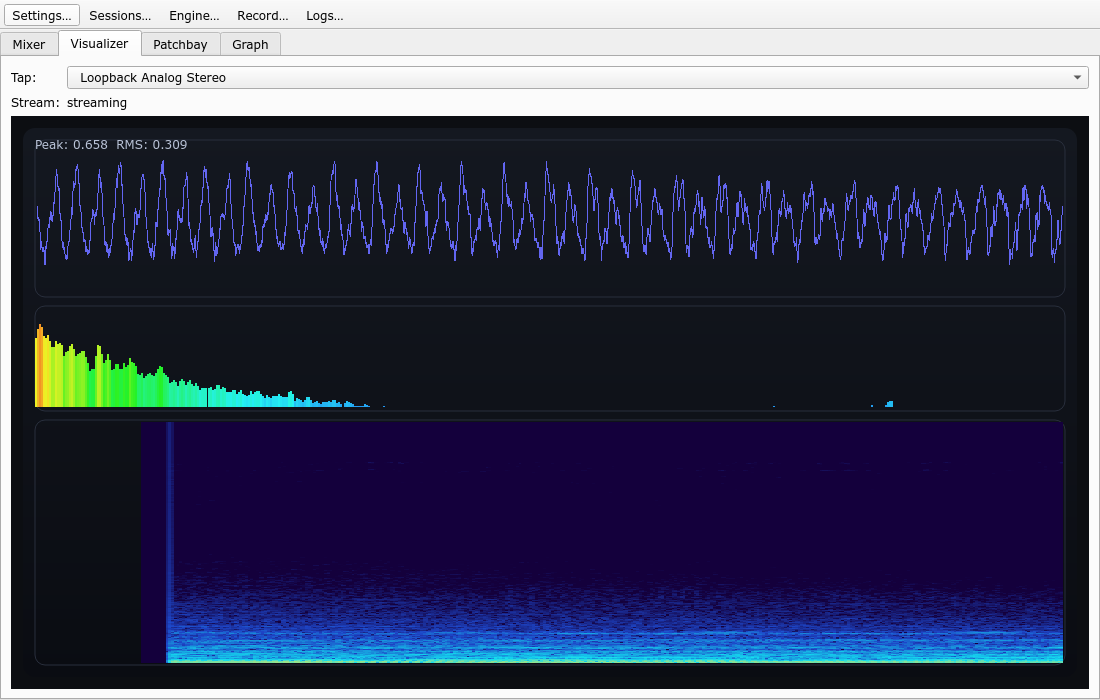
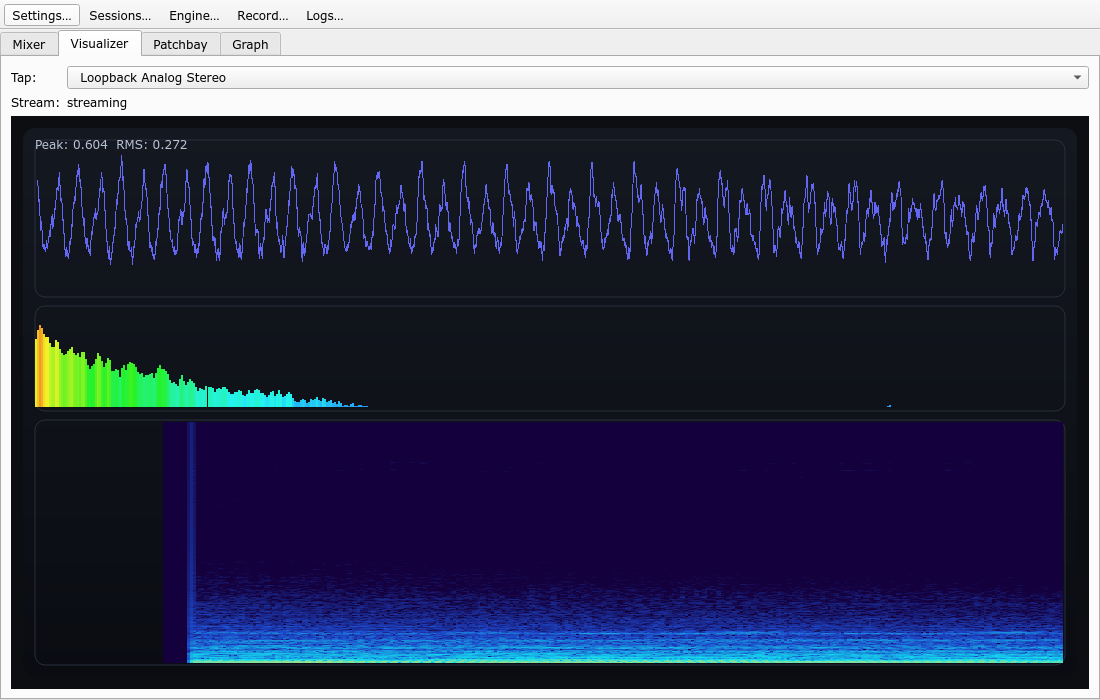
Add per-stream EQ targets
Expose EQ for playback/capture streams in GUI, TUI, and CLI, and refresh screenshots/gallery link.

diff --git a/src/ui/MixerPage.cpp b/src/ui/MixerPage.cpp
@@ -340,6 +340,7 @@ QWidget* makeStreamRow(PipeWireGraph* graph,
                        const PwNodeInfo& stream,
                        const PwNodeControls& controls,
                        const QList<PwNodeInfo>& devices,
+                       std::function<void()> onEq,
                        std::function<void()> onVisualize,
                        QList<QPointer<LevelMeterWidget>>& meters,
                        QWidget* parent)
@@ -392,6 +393,12 @@ QWidget* makeStreamRow(PipeWireGraph* graph,
     vizBtn->setToolTip(QObject::tr("Show in Visualizer"));
     QObject::connect(vizBtn, &QPushButton::clicked, row, [onVisualize = std::move(onVisualize)]() { onVisualize(); });
     h->addWidget(vizBtn, 0);
+  }
+
+  if (onEq) {
+    auto* eqBtn = new QPushButton(QObject::tr("EQ…"), row);
+    QObject::connect(eqBtn, &QPushButton::clicked, row, [onEq = std::move(onEq)]() { onEq(); });
+    h->addWidget(eqBtn, 0);
   }
 
   auto* deviceBox = new QComboBox(row);
@@ -522,6 +529,7 @@ QGroupBox* makeStreamsSection(const QString& title,
                               PipeWireGraph* graph,
                               PipeWireThread* pw,
                               const QString& filter,
+                              std::function<void(const PwNodeInfo&)> onEqForStream,
                               std::function<void(const PwNodeInfo&)> onVisualizeForStream,
                               QList<QPointer<LevelMeterWidget>>& meters,
                               QWidget* parent)
@@ -542,13 +550,19 @@ QGroupBox* makeStreamsSection(const QString& title,
     const auto controlsOpt = graph ? graph->nodeControls(stream.id) : std::nullopt;
     const PwNodeControls controls = controlsOpt.value_or(PwNodeControls{});
 
+    std::function<void()> onEq;
+    if (onEqForStream) {
+      const PwNodeInfo streamCopy = stream;
+      onEq = [onEqForStream, streamCopy]() { onEqForStream(streamCopy); };
+    }
+
     std::function<void()> onVisualize;
     if (onVisualizeForStream) {
       const PwNodeInfo streamCopy = stream;
       onVisualize = [onVisualizeForStream, streamCopy]() { onVisualizeForStream(streamCopy); };
     }
 
-    v->addWidget(makeStreamRow(graph, pw, stream, controls, devices, std::move(onVisualize), meters, box));
+    v->addWidget(makeStreamRow(graph, pw, stream, controls, devices, std::move(onEq), std::move(onVisualize), meters, box));
     ++count;
   }
 
@@ -755,8 +769,24 @@ void MixerPage::rebuild()
     emit visualizerTapRequested(stream.name, false);
   };
 
-  layout->addWidget(makeStreamsSection(tr("Playback (apps)"), playback, outputs, m_graph, m_pw, filter, onVisualizeStream, meters, m_container));
-  layout->addWidget(makeStreamsSection(tr("Recording (apps)"), recording, inputs, m_graph, m_pw, filter, onVisualizeStream, meters, m_container));
+  auto onEq = [this](const PwNodeInfo& node) {
+    if (!m_eq) {
+      return;
+    }
+
+    const QString label = node.description.isEmpty() ? node.name : node.description;
+    const EqPreset initial = m_eq->presetForNodeName(node.name);
+
+    EqDialog dlg(label, initial, this);
+    if (dlg.exec() != QDialog::Accepted) {
+      return;
+    }
+
+    m_eq->setPresetForNodeName(node.name, dlg.preset());
+  };
+
+  layout->addWidget(makeStreamsSection(tr("Playback (apps)"), playback, outputs, m_graph, m_pw, filter, onEq, onVisualizeStream, meters, m_container));
+  layout->addWidget(makeStreamsSection(tr("Recording (apps)"), recording, inputs, m_graph, m_pw, filter, onEq, onVisualizeStream, meters, m_container));
 
   const uint32_t defaultSinkId = m_graph ? m_graph->defaultAudioSinkId().value_or(0) : 0;
   const uint32_t defaultSourceId = m_graph ? m_graph->defaultAudioSourceId().value_or(0) : 0;
@@ -817,21 +847,6 @@ void MixerPage::rebuild()
   repopulateDefaultBox(m_defaultOutput, m_setDefaultOutput, outputs, defaultSinkId);
   repopulateDefaultBox(m_defaultInput, m_setDefaultInput, inputs, defaultSourceId);
 
-  auto onEq = [this](const PwNodeInfo& node) {
-    if (!m_eq) {
-      return;
-    }
-
-    const QString label = node.description.isEmpty() ? node.name : node.description;
-    const EqPreset initial = m_eq->presetForNodeName(node.name);
-
-    EqDialog dlg(label, initial, this);
-    if (dlg.exec() != QDialog::Accepted) {
-      return;
-    }
-
-    m_eq->setPresetForNodeName(node.name, dlg.preset());
-  };
   layout->addWidget(makeSection(tr("Output Devices"), outputs, m_graph, m_pw, defaultSinkId, filter, onEq, onVisualizeNode, meters, m_container));
   layout->addWidget(makeSection(tr("Input Devices"), inputs, m_graph, m_pw, defaultSourceId, filter, onEq, onVisualizeNode, meters, m_container));
 

diff --git a/src/tui/main.cpp b/src/tui/main.cpp
@@ -179,6 +179,32 @@ QList<PwNodeInfo> applySinksOrder(const QList<PwNodeInfo>& sinks, QSettings& s)
   return ordered;
 }
 
+QList<PwNodeInfo> eqTargetsForGraph(PipeWireGraph* graph)
+{
+  QList<PwNodeInfo> out;
+  if (!graph) {
+    return out;
+  }
+
+  QSettings s;
+  QList<PwNodeInfo> sinks = applySinksOrder(graph->audioSinks(), s);
+  QList<PwNodeInfo> sources = graph->audioSources();
+  QList<PwNodeInfo> playback = graph->audioPlaybackStreams();
+  QList<PwNodeInfo> capture = graph->audioCaptureStreams();
+
+  auto sortByLabel = [](const PwNodeInfo& a, const PwNodeInfo& b) { return displayNameForNode(a).toLower() < displayNameForNode(b).toLower(); };
+  std::sort(sources.begin(), sources.end(), sortByLabel);
+  std::sort(playback.begin(), playback.end(), sortByLabel);
+  std::sort(capture.begin(), capture.end(), sortByLabel);
+
+  out.reserve(sinks.size() + sources.size() + playback.size() + capture.size());
+  out.append(sinks);
+  out.append(sources);
+  out.append(playback);
+  out.append(capture);
+  return out;
+}
+
 bool moveSinkInOrder(const QList<PwNodeInfo>& sinks, const QString& sinkName, int delta, QString* statusOut = nullptr)
 {
   if (sinkName.trimmed().isEmpty()) {
@@ -685,17 +711,31 @@ void drawEqPage(PipeWireGraph* graph, EqManager* eq, int& selectedIdx, const QSt
     return;
   }
 
-  QList<PwNodeInfo> targets = graph->audioSinks();
-  const int sinkCount = targets.size();
-  const QList<PwNodeInfo> sources = graph->audioSources();
-  targets.append(sources);
+  const QList<PwNodeInfo> targets = eqTargetsForGraph(graph);
+  int sinkCount = 0;
+  int sourceCount = 0;
+  int playbackCount = 0;
+  int captureCount = 0;
+  for (const auto& n : targets) {
+    if (n.mediaClass == QStringLiteral("Audio/Sink")) {
+      ++sinkCount;
+    } else if (n.mediaClass == QStringLiteral("Audio/Source")) {
+      ++sourceCount;
+    } else if (n.mediaClass.startsWith(QStringLiteral("Stream/Output/Audio"))) {
+      ++playbackCount;
+    } else if (n.mediaClass.startsWith(QStringLiteral("Stream/Input/Audio"))) {
+      ++captureCount;
+    }
+  }
 
   mvprintw(4,
            0,
-           "Devices: %d  (Outputs: %d, Inputs: %d)",
+           "Targets: %d  (Outputs: %d, Inputs: %d, App PB: %d, App REC: %d)",
            static_cast<int>(targets.size()),
            sinkCount,
-           static_cast<int>(sources.size()));
+           sourceCount,
+           playbackCount,
+           captureCount);
   mvprintw(5, 0, "Up/Down select  e toggle  p/Enter preset");
 
   if (!statusLine.isEmpty()) {
@@ -708,7 +748,7 @@ void drawEqPage(PipeWireGraph* graph, EqManager* eq, int& selectedIdx, const QSt
   const int listHeight = std::max(0, height - listTop - 4);
 
   if (count <= 0) {
-    mvprintw(listTop, 0, "(no devices)");
+    mvprintw(listTop, 0, "(no targets)");
     return;
   }
 
@@ -734,7 +774,16 @@ void drawEqPage(PipeWireGraph* graph, EqManager* eq, int& selectedIdx, const QSt
       attron(A_REVERSE);
     }
 
-    const char* kind = node.mediaClass == QStringLiteral("Audio/Sink") ? "OUT" : "IN ";
+    const char* kind = "UNK";
+    if (node.mediaClass == QStringLiteral("Audio/Sink")) {
+      kind = "OUT";
+    } else if (node.mediaClass == QStringLiteral("Audio/Source")) {
+      kind = "IN ";
+    } else if (node.mediaClass.startsWith(QStringLiteral("Stream/Output/Audio"))) {
+      kind = "PB ";
+    } else if (node.mediaClass.startsWith(QStringLiteral("Stream/Input/Audio"))) {
+      kind = "REC";
+    }
     const char* enabled = preset.enabled ? "ON " : "OFF";
 
     const QString name = displayNameForNode(node);
@@ -2491,8 +2540,7 @@ int main(int argc, char** argv)
             }
           }
           else if (page == Page::Eq) {
-            QList<PwNodeInfo> targets = graph.audioSinks();
-            targets.append(graph.audioSources());
+            QList<PwNodeInfo> targets = eqTargetsForGraph(&graph);
             const int count = targets.size();
 
             selectedEqDevice = clampIndex(selectedEqDevice, count);
@@ -2917,8 +2965,7 @@ int main(int argc, char** argv)
           break;
         }
         case Page::Eq: {
-          QList<PwNodeInfo> targets = graph.audioSinks();
-          targets.append(graph.audioSources());
+          QList<PwNodeInfo> targets = eqTargetsForGraph(&graph);
           const PwNodeInfo n = targets.value(clampIndex(selectedEqDevice, targets.size()));
           const PwNodeControls c = graph.nodeControls(n.id).value_or(PwNodeControls{});
           const EqPreset p = n.name.isEmpty() ? EqPreset{} : eq.presetForNodeName(n.name);

diff --git a/src/backend/EqManager.cpp b/src/backend/EqManager.cpp
@@ -12,7 +12,38 @@
 namespace {
 bool isTargetClass(const QString& mediaClass)
 {
-  return mediaClass == QStringLiteral("Audio/Sink") || mediaClass == QStringLiteral("Audio/Source");
+  if (mediaClass == QStringLiteral("Audio/Sink") || mediaClass == QStringLiteral("Audio/Source")) {
+    return true;
+  }
+  // Treat per-app streams as EQ targets too (per-stream EQ).
+  if (mediaClass.startsWith(QStringLiteral("Stream/Output/Audio"))) {
+    return true;
+  }
+  if (mediaClass.startsWith(QStringLiteral("Stream/Input/Audio"))) {
+    return true;
+  }
+  return false;
+}
+
+bool isSinkLike(const QString& mediaClass)
+{
+  if (mediaClass == QStringLiteral("Audio/Sink")) {
+    return true;
+  }
+  if (mediaClass == QStringLiteral("Audio/Source")) {
+    return false;
+  }
+  // PipeWire streams:
+  // - Stream/Output/Audio => source-like (outputs audio)
+  // - Stream/Input/Audio  => sink-like (consumes audio)
+  if (mediaClass.startsWith(QStringLiteral("Stream/Input/Audio"))) {
+    return true;
+  }
+  if (mediaClass.startsWith(QStringLiteral("Stream/Output/Audio"))) {
+    return false;
+  }
+
+  return false;
 }
 
 QHash<QString, PwPortInfo> portsByChannel(const QList<PwPortInfo>& ports, uint32_t nodeId, const QString& direction)
@@ -138,7 +169,7 @@ QVector<QString> EqManager::targetChannels(const PwNodeInfo& node) const
   }
 
   const QList<PwPortInfo> ports = m_graph->ports();
-  const QString dir = node.mediaClass == QStringLiteral("Audio/Sink") ? QStringLiteral("in") : QStringLiteral("out");
+  const QString dir = isSinkLike(node.mediaClass) ? QStringLiteral("in") : QStringLiteral("out");
   for (const auto& p : ports) {
     if (p.nodeId != node.id || p.direction != dir) {
       continue;
@@ -299,7 +330,7 @@ void EqManager::reconcileOne(ActiveEq& eq)
   const auto ports = m_graph->ports();
   const auto links = m_graph->links();
 
-  const bool isSink = eq.targetMediaClass == QStringLiteral("Audio/Sink");
+  const bool isSink = isSinkLike(eq.targetMediaClass);
 
   const QString targetDir = isSink ? QStringLiteral("in") : QStringLiteral("out");
   const QHash<QString, PwPortInfo> targetPorts = portsByChannel(ports, targetId, targetDir);

diff --git a/src/cli/main.cpp b/src/cli/main.cpp
@@ -2891,6 +2891,8 @@ int main(int argc, char** argv)
         if (sub == QStringLiteral("list")) {
           QList<PwNodeInfo> targets = graph.audioSinks();
           targets.append(graph.audioSources());
+          targets.append(graph.audioPlaybackStreams());
+          targets.append(graph.audioCaptureStreams());
 
           if (jsonOutput) {
             QJsonArray arr;

diff --git a/plan.md b/plan.md
@@ -4,7 +4,7 @@
 
 - Qt6 app with tabs: Mixer, Visualizer, Patchbay, Graph.
 - Global Settings dialog (toolbar) with Output Devices ordering (affects Mixer + Patchbay).
-- Per-device Parametric EQ (Output + Input devices), implemented as an in-graph PipeWire filter node.
+- Parametric EQ (Output devices + Input devices + per-app streams), implemented as an in-graph PipeWire filter node.
 - PipeWire graph discovery (nodes/ports/links), node Props (volume/mute), link create/destroy.
 - Visualizers: waveform, spectrum, spectrogram.
 
@@ -140,7 +140,7 @@
 - [x] CLI: add explicit `default-sink` / `default-source` commands (wrap `PipeWireGraph::setDefaultAudioSink/Source`).
 - [x] Patchbay: make `headroom.eq.*` ports readable (avoid `in_playback_1`/`out_playback_1` label overflow).
 - [x] Patchbay: make `headroom.eq.*` port labels unambiguous (prefix with `in`/`out` while still using the channel label).
-- [x] Screenshots: publish an uploaded gallery via `./scripts/publish_screenshots.sh` (latest: `https://tmp.uh-oh.wtf/2026/01/24/f462c35f-index.html`).
+- [x] Screenshots: publish an uploaded gallery via `./scripts/publish_screenshots.sh` (latest: `https://tmp.uh-oh.wtf/2026/01/25/d6a730cf-index.html`).
 - [x] Release: commit + push to GitHub (`git@github.com:pepperpepperpepper/max-headroom.git`).
 - [x] TUI: add a lightweight Engine page (systemd user-unit status + start/stop/restart).
 - [x] CLI: add sink ordering commands (for remote layout control).

diff --git a/README.md b/README.md
@@ -40,7 +40,7 @@ Tip: regenerate these locally with `./scripts/make_screenshots.sh`.
 - Engine control: start/stop/restart PipeWire + WirePlumber (systemd user units).
 - Sessions: named snapshots (links + defaults + EQ + layout) with one-click restore.
 - Settings: reorder output devices (affects Mixer + Patchbay).
-- Parametric EQ: per-device EQ for output *and* input devices (inserted as an in-graph PipeWire filter), with response curve preview, preset save/load, and AutoEQ/Squiglink import.
+- Parametric EQ: per-device *and per-app stream* EQ (inserted as an in-graph PipeWire filter), with response curve preview, preset save/load, and AutoEQ/Squiglink import.
 
 ## Build (local)
 
